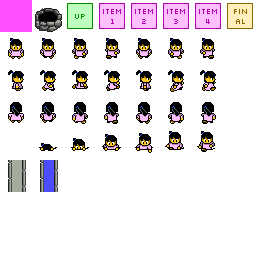
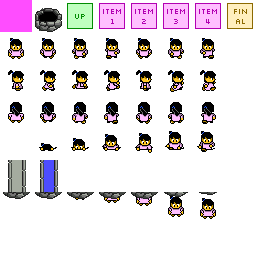
Dropping down animation

Changed region(s): [[0.0, 0.75, 0.75, 0.8438], [0.7812, 0.75, 0.8438, 0.875]]

diff --git a/src/level.go b/src/level.go
@@ -337,9 +337,10 @@ func (l *Level) LayerAdvance() {
 		l.eventSystem.Enqueue(twodee.NewBasicGameEvent(PlayDangerMusic))
 	}
 	l.Transitions[l.Active] = NewLinearTween(0, l.Height, TopSlideSpeed)
-	l.Player.SetState(Standing | Down)
-	l.Transitions[l.Active].SetCallback(func() {
+	l.Player.SetState(ClimbDown | Down)
+	l.Player.SetCallback(func() {
 		l.Player.CanMove = true
+		l.Player.SetState(Standing | Down)
 	})
 	l.Active++
 	l.Transitions[l.Active] = NewLinearTween(-1, 0, BotSlideSpeed)

diff --git a/src/player.go b/src/player.go
@@ -90,6 +90,7 @@ const (
 	Up
 	Down
 	ClimbUp
+	ClimbDown
 )
 
 var PlayerAnimations = map[EntityState][]int{
@@ -102,6 +103,7 @@ var PlayerAnimations = map[EntityState][]int{
 	Walking | Left:   []int{17, 18, 19, 20, 21, 22},
 	Walking | Right:  []int{17, 18, 19, 20, 21, 22},
 	ClimbUp | Down:   []int{32, 33, 34, 35, 36, 37, 38, 8},
+	ClimbDown | Down: []int{48, 49, 50, 51, 52, 53, 54, 8},
 }
 
 func NewPlayer(x, y float32) (player *Player) {
